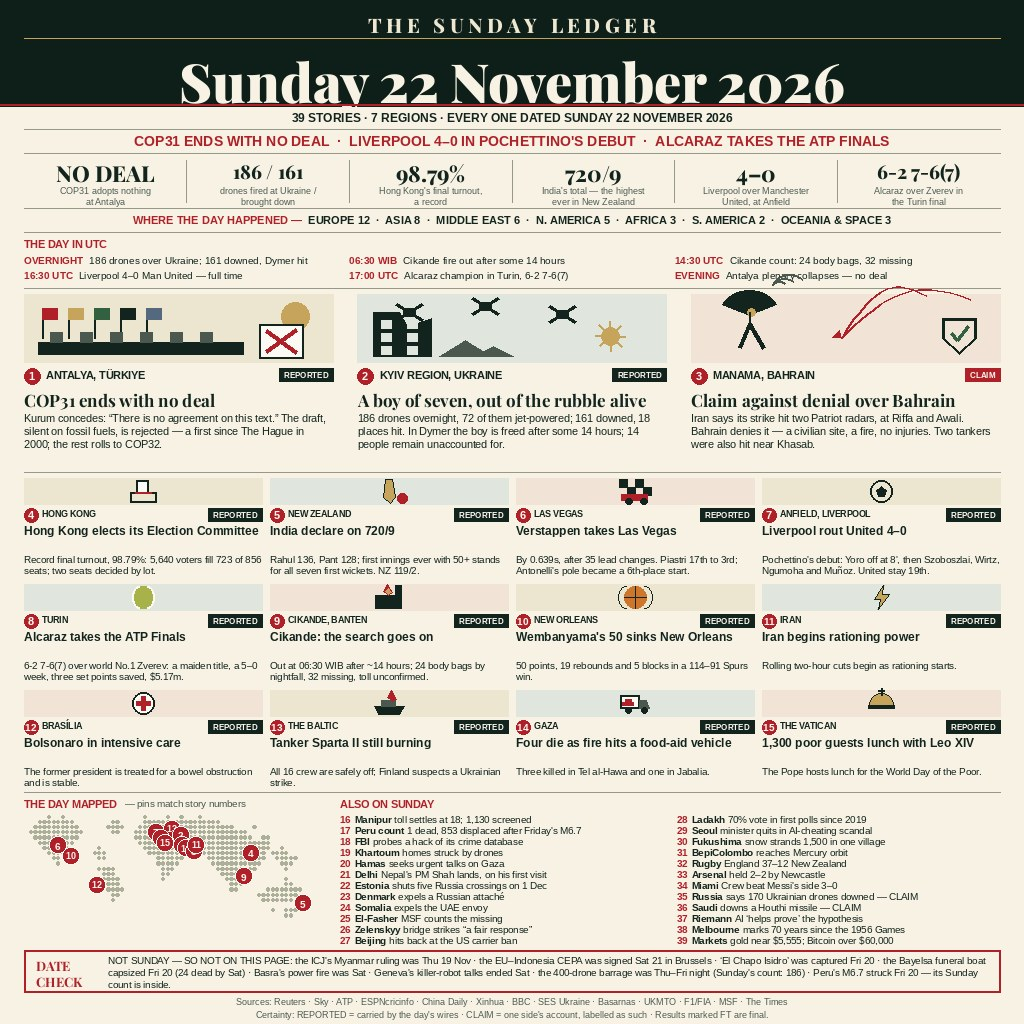
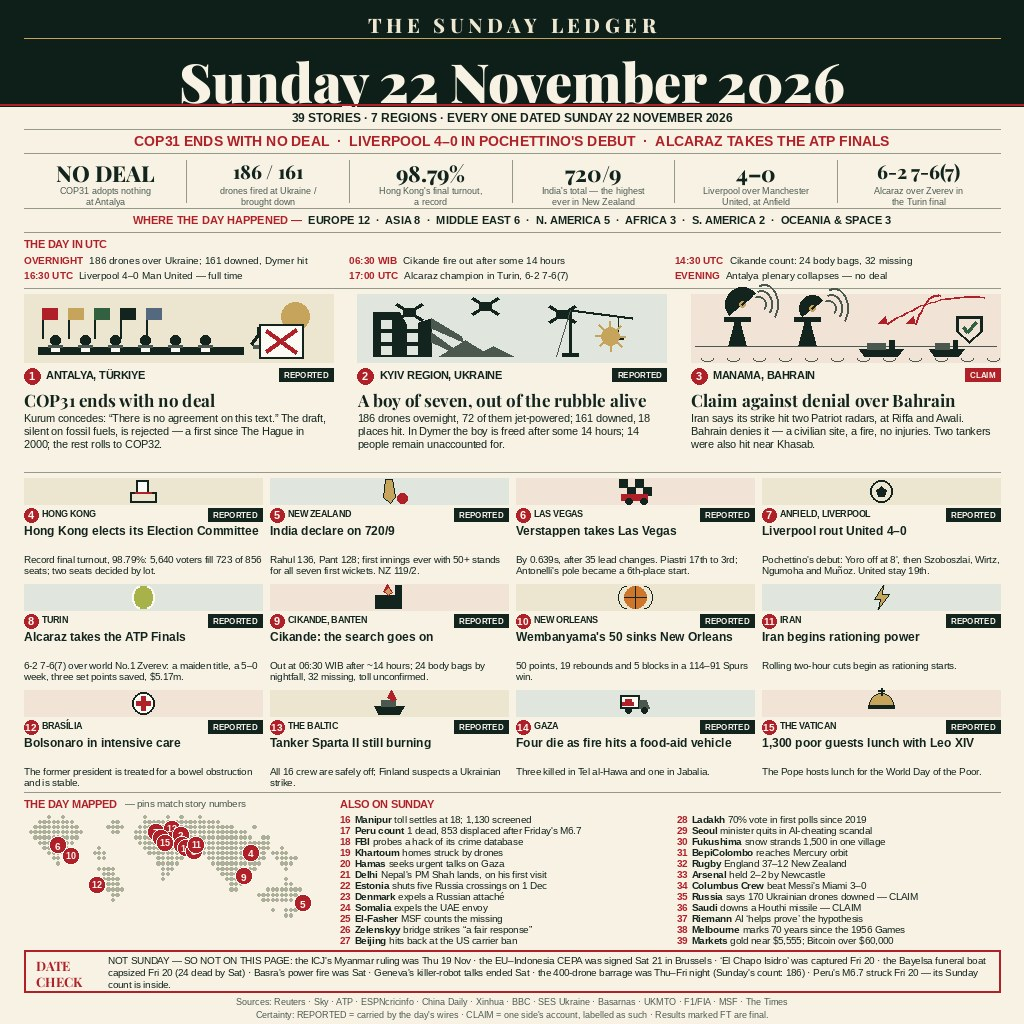
Fix Columbus Crew garble, enrich lead art, keep radar art inside its panel

diff --git a/render.py b/render.py
@@ -211,7 +211,7 @@ ALSO = [
     (31, "BepiColombo", "reaches Mercury orbit"),
     (32, "Rugby", "England 37\u201312 New Zealand"),
     (33, "Arsenal", "held 2\u20132 by Newcastle"),
-    (34, "Miami", "Crew beat Messi's side 3\u20130"),
+    (34, "Columbus Crew", "beat Messi's Miami 3\u20130"),
     (35, "Russia", "says 170 Ukrainian drones downed \u2014 CLAIM"),
     (36, "Saudi", "downs a Houthi missile \u2014 CLAIM"),
     (37, "Riemann", "AI \u2018helps prove\u2019 the hypothesis"),
@@ -242,17 +242,28 @@ def panel(x, y, w, h, tint):
 
 
 def art_cop(x, y, w, h):
-    # sun, a row of flags, a long table, and the rejected text under a red X
+    # sun, a row of flags, the delegates' table with heads and a gavel,
+    # and the rejected text under a red X
     d.ellipse([x + w - 52, y + 8, x + w - 24, y + 36], fill=GOLD)
     cols = [RED, GOLD, (52, 96, 66), INK, (84, 104, 128)]
     for i, c in enumerate(cols):
         fx = x + 18 + i * 26
         d.line([(fx, y + 14), (fx, y + 44)], fill=INK, width=2)
         d.rectangle([fx, y + 14, fx + 15, y + 25], fill=c)
-    d.rectangle([x + 14, y + h - 20, x + w - 90, y + h - 8], fill=INK)
+    # delegates' table: a long table, a row of heads above it, papers
+    tx0, tx1, ty = x + 14, x + w - 90, y + h - 8
+    d.rectangle([tx0, ty - 7, tx1, ty], fill=INK)
     for i in range(6):
-        d.rectangle([x + 26 + i * 30, y + h - 30, x + 38 + i * 30,
-                     y + h - 20], fill=INK2)
+        hx = tx0 + 12 + i * 30
+        d.ellipse([hx, ty - 19, hx + 10, ty - 9], fill=INK)
+        d.rectangle([hx - 2, ty - 9, hx + 12, ty - 7], fill=INK2)
+        d.rectangle([hx + 1, ty - 6, hx + 9, ty - 3],
+                    fill=(252, 250, 244))
+    # the chair's gavel, raised at the head of the table
+    gx, gy = tx1 + 8, ty - 22
+    d.line([(gx, gy + 12), (gx + 9, gy)], fill=INK, width=3)
+    d.rectangle([gx + 6, gy - 5, gx + 15, gy + 2], fill=INK)
+    d.rectangle([gx + 2, gy + 13, gx + 16, gy + 16], fill=INK2)
     dx, dy = x + w - 74, y + 30
     d.rectangle([dx, dy, dx + 44, dy + 34], fill=(252, 250, 244),
                 outline=INK, width=2)
@@ -261,7 +272,8 @@ def art_cop(x, y, w, h):
 
 
 def art_drone(x, y, w, h):
-    # three drones over a broken block; a rescuer's lamp in the rubble
+    # three drones over a broken block; rubble, a rescue crane, and a
+    # rescuer's lamp in the wreckage
     for (cx, cy) in [(x + 52, y + 18), (x + 128, y + 12), (x + 205, y + 20)]:
         d.line([(cx - 13, cy - 8), (cx + 13, cy + 8)], fill=INK, width=3)
         d.line([(cx - 13, cy + 8), (cx + 13, cy - 8)], fill=INK, width=3)
@@ -273,8 +285,21 @@ def art_drone(x, y, w, h):
         for c_ in range(2):
             d.rectangle([bx + 8 + c_ * 26, by - 36 + r_ * 13,
                          bx + 18 + c_ * 26, by - 28 + r_ * 13], fill=TINT2)
+    # snapped floor slabs leaning out of the broken cross-section
+    d.polygon([(bx + 58, by - 38), (bx + 88, by - 20), (bx + 90, by - 14),
+               (bx + 58, by - 28)], fill=INK2)
+    d.polygon([(bx + 58, by - 24), (bx + 80, by - 8), (bx + 82, by - 3),
+               (bx + 58, by - 14)], fill=INK2)
     d.polygon([(bx + 66, by), (bx + 92, by - 16), (bx + 118, by)], fill=INK2)
     d.polygon([(bx + 100, by), (bx + 120, by - 10), (bx + 140, by)], fill=INK2)
+    # rescue crane: mast, jib and a hook line over the rubble
+    mx = x + w - 96
+    d.line([(mx, by), (mx, y + 16)], fill=INK, width=3)
+    d.line([(mx, y + 16), (mx + 62, y + 24)], fill=INK, width=3)
+    d.line([(mx, y + 16), (mx - 14, by)], fill=INK2, width=1)
+    d.line([(mx + 48, y + 22), (mx + 48, by - 18)], fill=INK, width=1)
+    d.line([(mx + 43, by - 18), (mx + 53, by - 18)], fill=INK, width=2)
+    d.rectangle([mx - 8, by - 3, mx + 8, by], fill=INK)
     lx, ly = x + w - 56, y + h - 26
     d.ellipse([lx - 9, ly - 9, lx + 9, ly + 9], fill=GOLD)
     for a in range(0, 360, 45):
@@ -285,34 +310,58 @@ def art_drone(x, y, w, h):
 
 
 def art_radar(x, y, w, h):
-    # a Patriot radar, incoming arcs, and the shield of the denial
-    # a Patriot radar: a proper dish bowl on a stand, facing the sky
-    cx, cy = x + 62, y + h - 14
-    d.pieslice([cx - 34, cy - 58, cx + 26, cy - 8], start=205, end=335,
-               fill=INK)
-    d.ellipse([cx - 6, cy - 40, cx + 2, cy - 32], fill=GOLD)
-    d.line([(cx - 4, cy - 36), (cx - 4, cy - 24)], fill=INK, width=2)
-    d.line([(cx - 4, cy - 24), (cx - 14, cy)], fill=INK, width=4)
-    d.line([(cx - 4, cy - 24), (cx + 10, cy)], fill=INK, width=4)
-    for r_ in (16, 26, 36):
-        d.arc([cx + 18, cy - 62 - r_ // 3, cx + 18 + r_, cy - 62 + r_ // 2],
-              start=200, end=320, fill=INK2, width=2)
+    # TWO Patriot radar dishes on masts, signal arcs, incoming tracks
+    # kept inside the panel, the denial's shield, and tankers on the water
     import math
-    for (sx, sy) in [(x + w - 30, y + 6), (x + w - 74, y + 2)]:
+    gy = y + h - 16                     # ground line; sea below it
+
+    def dish(cx, big):
+        my = gy                           # mast foot
+        d.polygon([(cx - 9, my), (cx - 2, my - 26), (cx + 2, my - 26),
+                   (cx + 9, my)], fill=INK)
+        d.rectangle([cx - 13, my - 29, cx + 13, my - 25], fill=INK)
+        r = 17 if big else 13
+        ccx, ccy = cx + 5, my - 29 - r + 4
+        d.pieslice([ccx - r, ccy - r, ccx + r, ccy + r], start=140, end=320,
+                   fill=INK)
+        d.ellipse([ccx - 3, ccy - 3, ccx + 3, ccy + 3], fill=GOLD)
+        d.line([(ccx, ccy), (ccx + 10, ccy - 9)], fill=INK, width=2)
+        for rr in (8, 14, 20):
+            d.arc([ccx + 8, ccy - rr, ccx + 8 + rr + 8, ccy + rr],
+                  start=250, end=40, fill=INK2, width=2)
+        return ccx, ccy
+
+    dish(x + 46, True)
+    dish(x + 116, False)
+    # incoming tracks: flat arcs that stay inside the panel
+    for (sx, sy, ex) in [(x + w - 16, y + 4, x + 196),
+                         (x + w - 60, y + 2, x + 224)]:
         pts = []
         for t in range(21):
             tt = t / 20
-            px = sx + (x + 150 - sx) * tt
-            py = sy + (y + 44 - sy) * tt - 26 * math.sin(tt * math.pi)
+            px = sx + (ex - sx) * tt
+            py = sy + (y + 30 - sy) * tt - 9 * math.sin(tt * math.pi)
             pts.append((px, py))
         d.line(pts, fill=RED, width=2)
         d.polygon([(pts[-1][0], pts[-1][1]), (pts[-1][0] - 9, pts[-1][1] - 1),
                    (pts[-1][0] - 2, pts[-1][1] - 8)], fill=RED)
-    sx, sy = x + w - 58, y + h - 44
-    d.polygon([(sx, sy), (sx + 34, sy), (sx + 34, sy + 20), (sx + 17, sy + 36),
-               (sx, sy + 20)], outline=INK, width=3)
-    d.line([(sx + 9, sy + 15), (sx + 15, sy + 22), (sx + 26, sy + 8)],
+    # the shield of the denial, smaller, at the right
+    sx, sy = x + w - 44, y + 22
+    d.polygon([(sx, sy), (sx + 26, sy), (sx + 26, sy + 15), (sx + 13, sy + 27),
+               (sx, sy + 15)], outline=INK, width=3)
+    d.line([(sx + 7, sy + 11), (sx + 11, sy + 16), (sx + 20, sy + 6)],
            fill=(52, 96, 66), width=3)
+    # the water, and two tankers on it
+    d.line([(x + 4, gy), (x + w - 4, gy)], fill=INK2, width=1)
+    for (hx, s) in [(x + 168, 1.0), (x + 238, 0.8)]:
+        hw = 44 * s
+        d.polygon([(hx, gy + 3), (hx + hw, gy + 3), (hx + hw - 6, gy + 10),
+                   (hx + 5, gy + 10)], fill=INK)
+        d.rectangle([hx + 8 * s, gy - 3, hx + 26 * s, gy + 3], fill=INK2)
+        d.rectangle([hx + 30 * s, gy - 6, hx + 35 * s, gy + 3], fill=INK)
+    for wx_ in range(int(x) + 10, int(x + w) - 12, 26):
+        d.arc([wx_, gy + 9, wx_ + 12, gy + 15], start=0, end=180,
+              fill=INK2, width=1)
 
 
 LEAD_ART = [art_cop, art_drone, art_radar]
